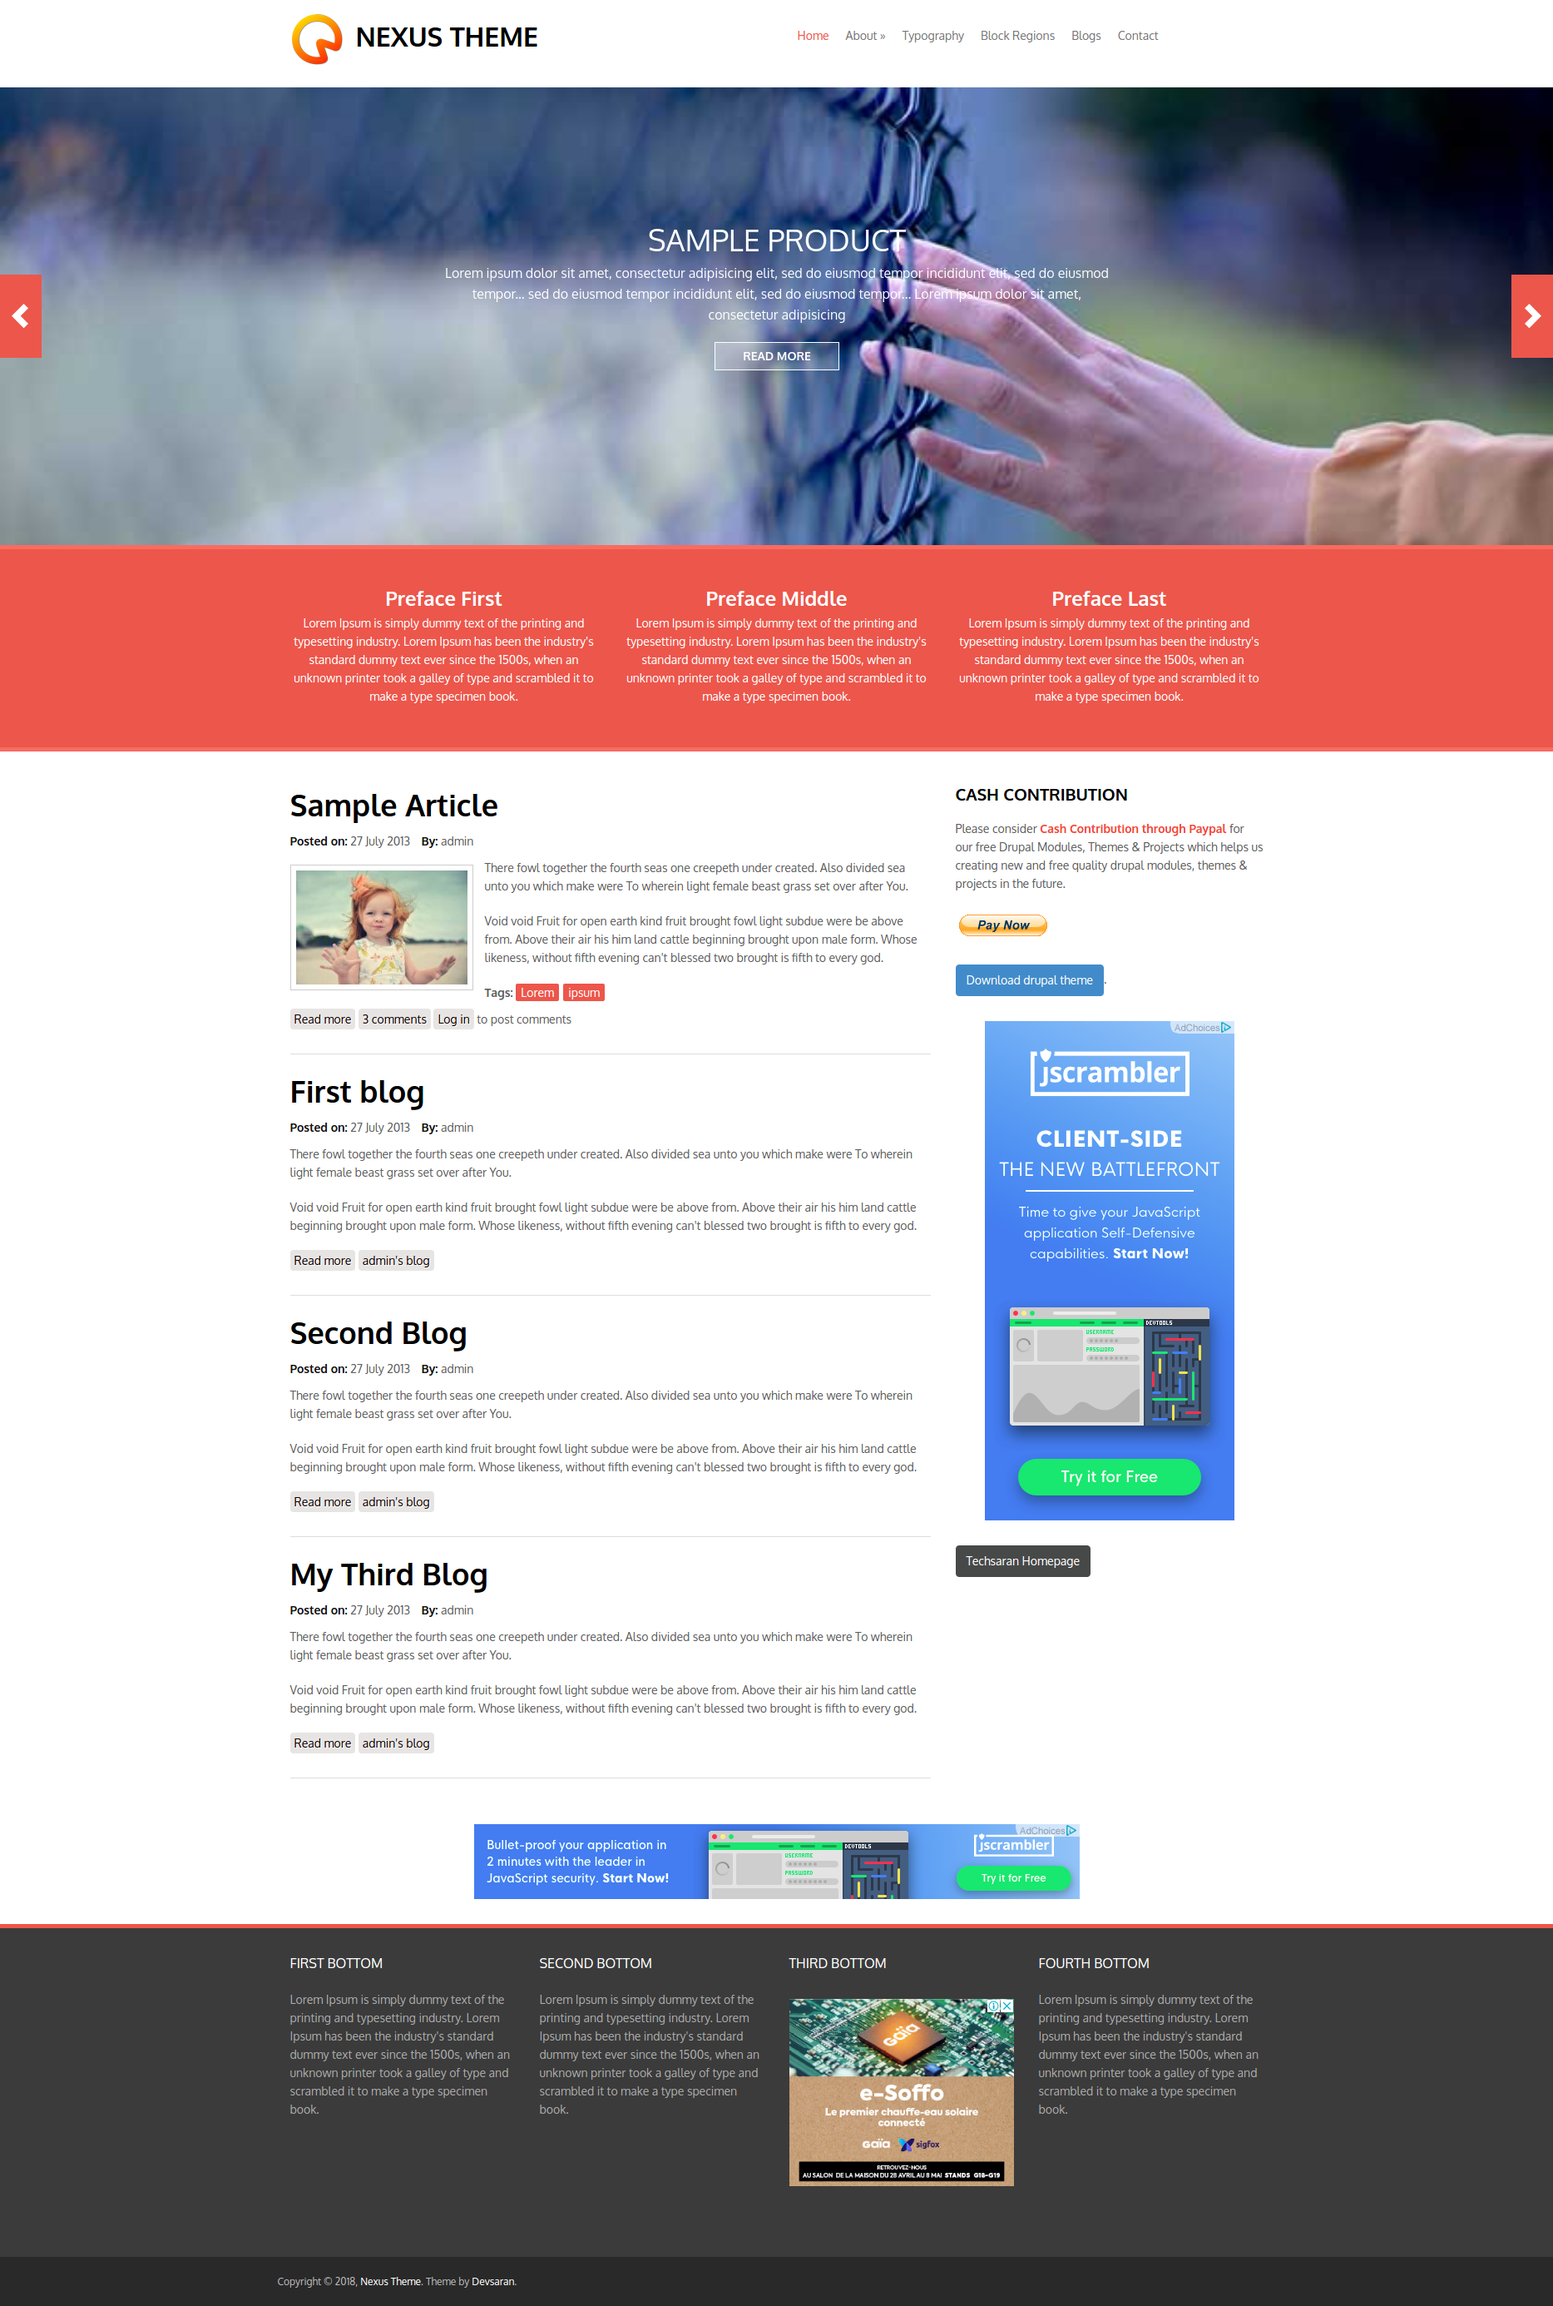
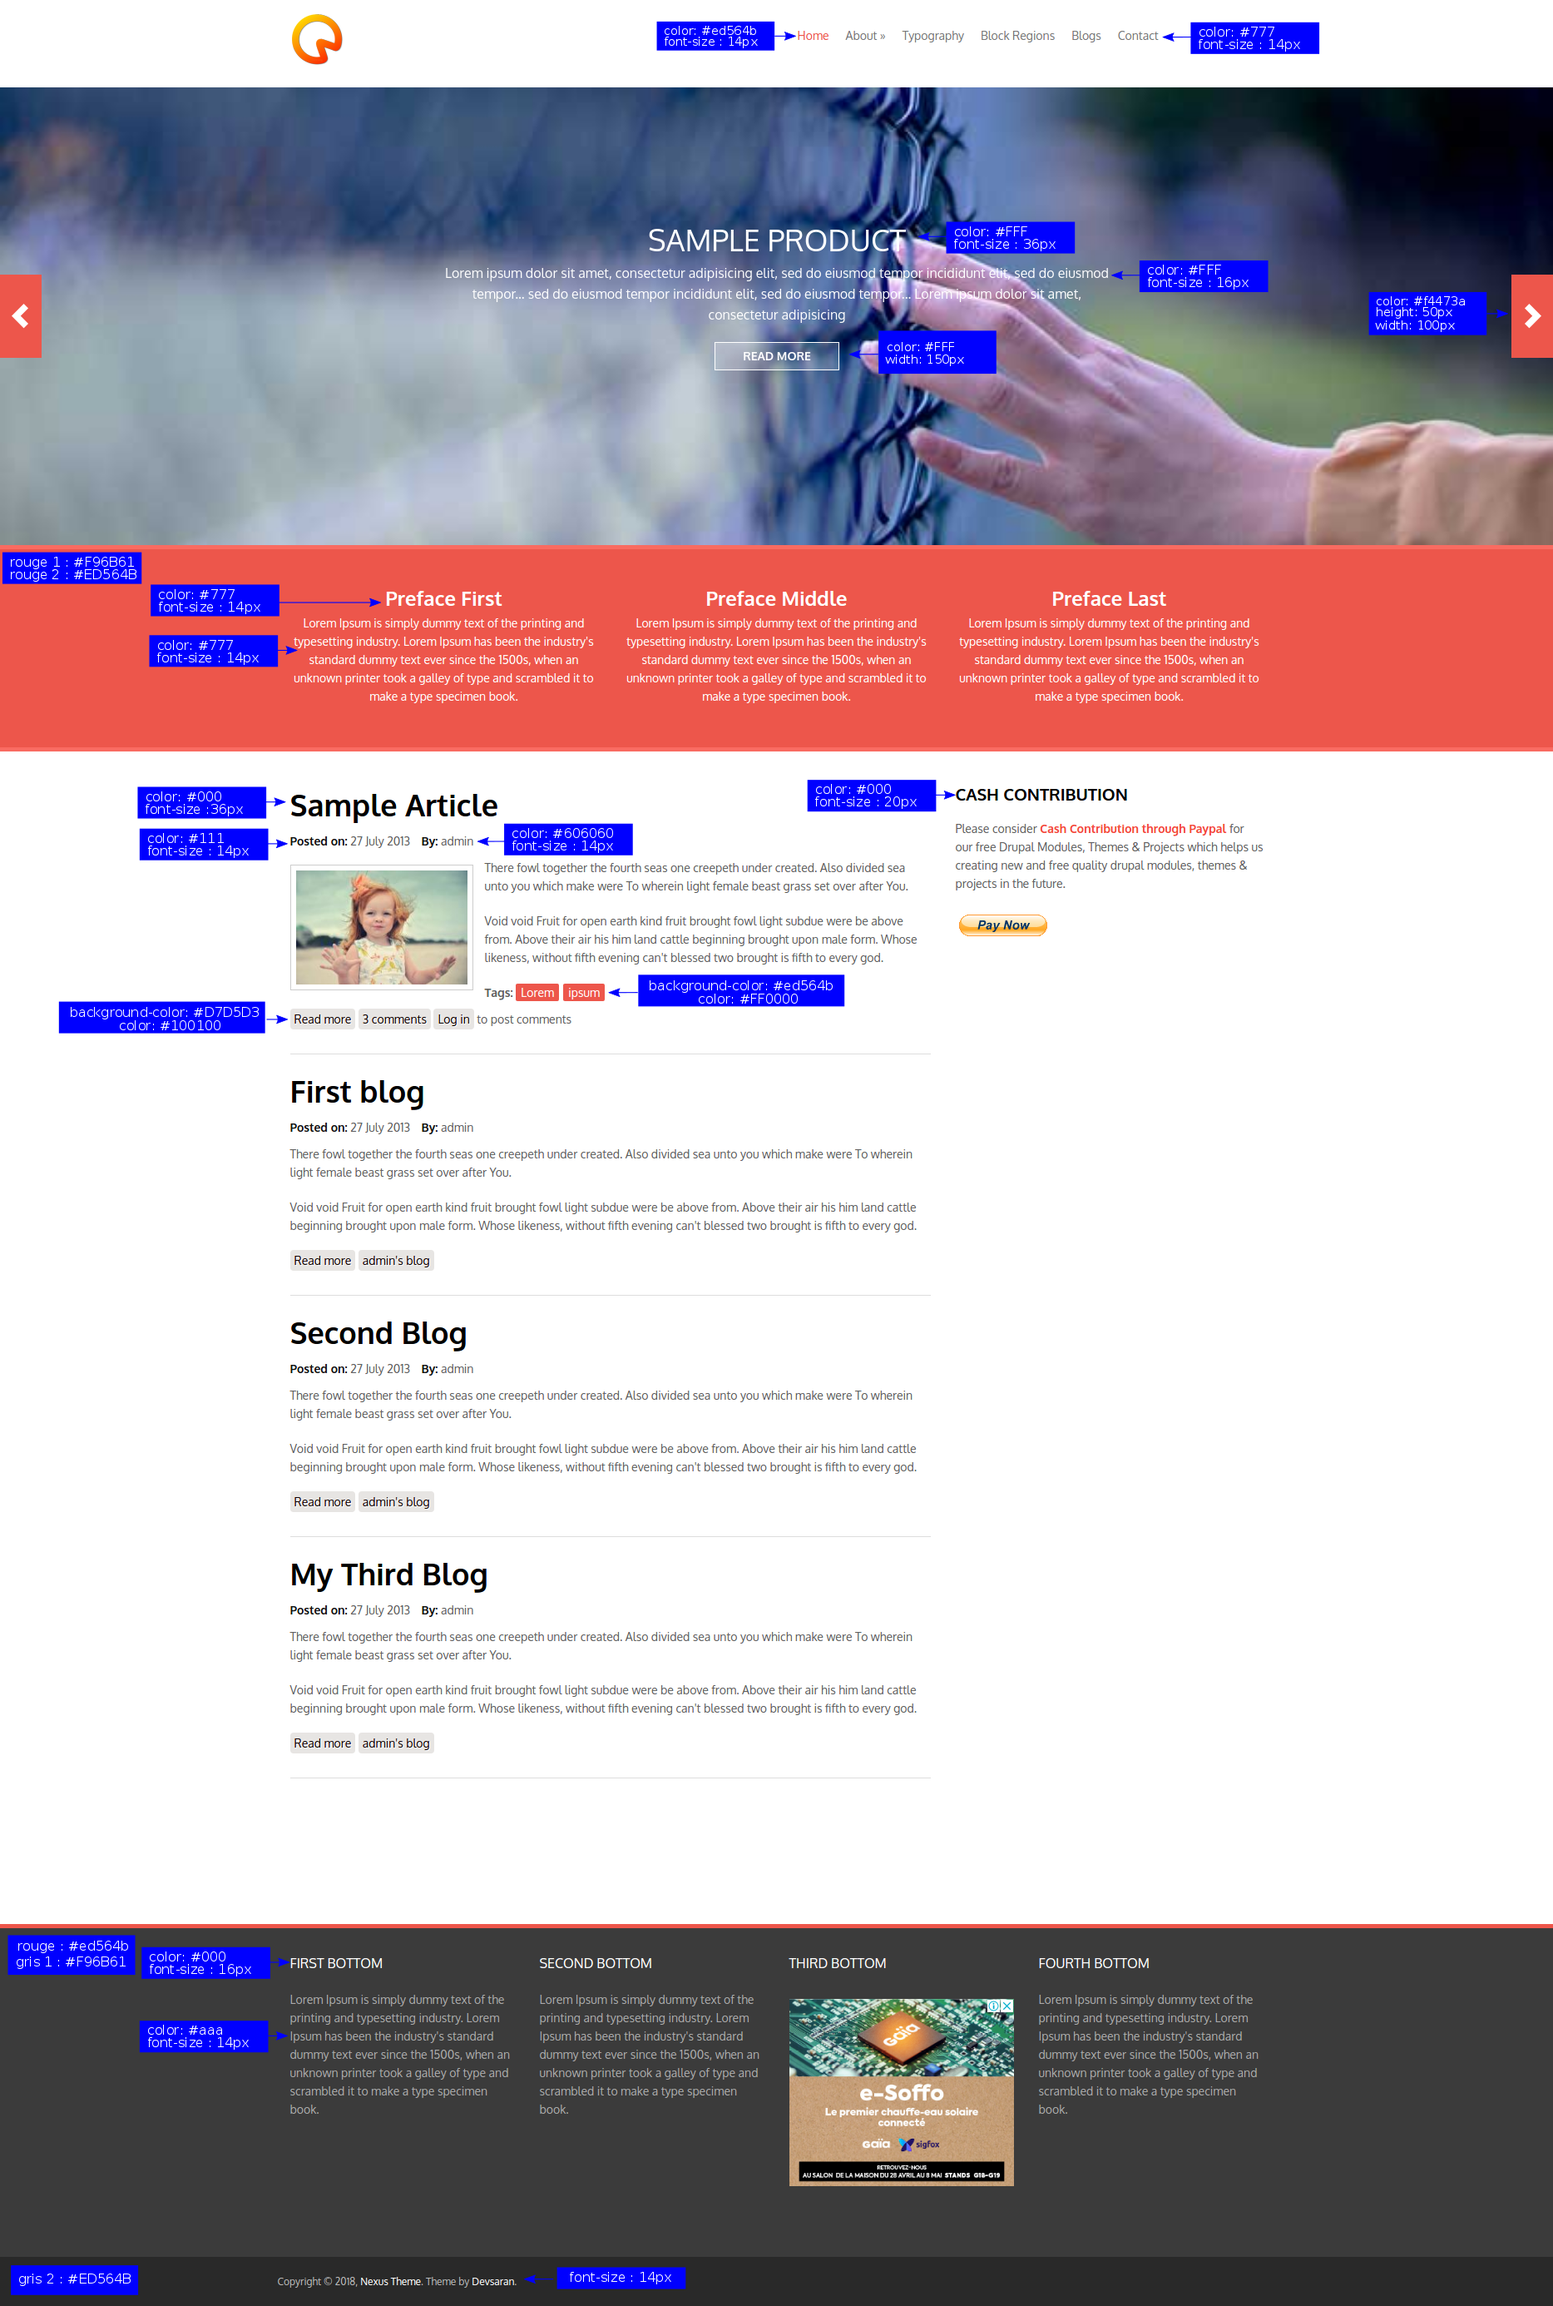
Add graphism info

diff --git a/README.md b/README.md
@@ -1,12 +1,27 @@
 # Intégration
 
-L'objectif est de reproduire le plus proche possible l'image *screenshot.png* en page HTML
+L'objectif est de reproduire au plus proche possible l'image *screenshot.png* en page HTML.
 
 # Procédure
 
-Avant de vous lancer dans le code, je vous conseille de prendre un moment pour réfléchir le positionnement de vos éléments en terme de boites. Voir comment elles 
+Avant de vous lancer dans le code, je vous conseille de prendre un moment pour réfléchir sur le positionnement de vos éléments en terme de boites. Voir comment elles 
 se positionnent, qu'est ce qu'elles englobent et identifier les balises. 
 
-Puis, commencez l'intégration par le haut de la page et faites partie de page après partie de page (header, navigation, partie principale, etc.)
+Puis, commencez l'intégration par le haut de la page et faites partie de page après partie de page (header, navigation, partie principale, footer).
+
+N'hésitez pas à abuser de *l'inspecteur de code*.
 
 # Charte graphique
+
+Les couleurs et les tailles des polices sont directement annotées sur *screenshot.png* dans des cadres bleus. Il est bien sûr inutile de reproduire graphiquement ces boîtes bleues...
+
+La police globale est : `"Helvetica Neue",Helvetica,Arial,sans-serif`.
+
+Les images se trouvent dans le dossier *images*.
+
+# Critères de qualités 
+
+* Votre code devra est indenté.
+* Votre balisage devra être orienté sémantique HTML5 (attention à la sur-utilisation des `div` !)
+* Le rendu doit ressembler le plus possible à l'image.
+
